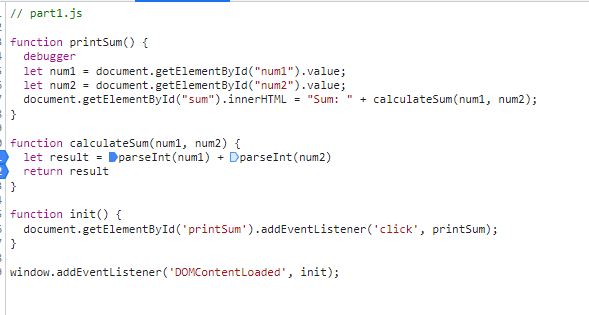
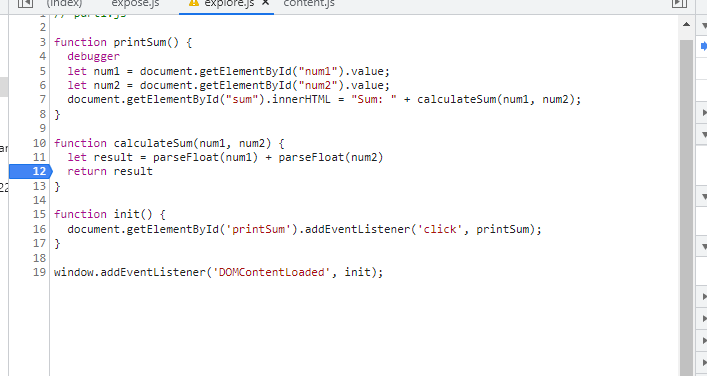
Double checked and fix issues

Changed region(s): [[0.0, 0.0, 1.0, 1.0], [0.7334, 0.7143, 0.8557, 0.7429]]

diff --git a/expose/javascript/part2.md b/expose/javascript/part2.md
@@ -19,10 +19,10 @@
  (a). '32', because integers 2 map to the string representation '2', and combine is '32'
  (b). 1, because the string '3' is map to the integer 3, and 3 - 2 = 1
  (c). 3, because null coerces to 0, and 3 + 0 = 3
- (d). '3', because original string plus empty string is still equals to the original string. 
+ (d). '3null', because original string plus empty string is still equals to the original string. 
  (e). 4. because true maps to 1 and 3 + 1 = 4
  (f). 0, because false maps to 0 and empty string is 0, so 0 + 0 = 0
- (g). '3undefine' because undefine has been maps to its string representation 'undefine', and '3' concatenate with 'undefine' is '3undefine'
+ (g). '3undefined' because undefine has been maps to its string representation 'undefine', and '3' concatenate with 'undefine' is '3undefine'
  (h). NaN, because a string with letters can not be converted into numbers, therefore the subtraction is invalid operation which returns Not-A-Number
 14. 
 (a). true, since the string '2' maps to integer 2, and 2 is greater than 1
@@ -32,7 +32,7 @@
 (e). false, because true maps to 1, and 1 is not equal to 2, therefore it is false
 (f). true, because any integer greater than 0 is maps to true in boolean value, and both sides are the same data type, therefore true === true
 15.  The different between == and === is that == compares the value despite their data type, but === not only compares the value stored but also both sides' data types
-17. [2,3,6] will be the result. First, the code calls the modifyArray function and use [1,2,3] and the function doSomething as input. Inside modifyArray function, it creates a newArr array that stores the values to return. Then, the for loop iterate through the array originally passed into the function. In this case, it's [1,2,3]. Inside the for loop, it calls doSomething function with each value as input and multiply that value by 2, and then it stores that result into newArr. After the for loop, the function returns newArr, which stores [2,4,6].
+17. [2,4,6] will be the result. First, the code calls the modifyArray function and use [1,2,3] and the function doSomething as input. Inside modifyArray function, it creates a newArr array that stores the values to return. Then, the for loop iterate through the array originally passed into the function. In this case, it's [1,2,3]. Inside the for loop, it calls doSomething function with each value as input and multiply that value by 2, and then it stores that result into newArr. After the for loop, the function returns newArr, which stores [2,4,6].
 19. 
 1
 4

diff --git a/explore/devtools/devtools-pt2.md b/explore/devtools/devtools-pt2.md
@@ -1,2 +1,2 @@
 1. The bug is that num1 and num2 are both strings not integers. Therefore num1+num2 is the expression to concatenate two strings, instead of mathmatical addition
-2.  I will call parseInt onto both num1 and num2, and then do the addition. This will trigger mathmatical calculation instead of string concatenation
+2.  I will call parseFloat onto both num1 and num2, and then do the addition. This will trigger mathmatical calculation instead of string concatenation
